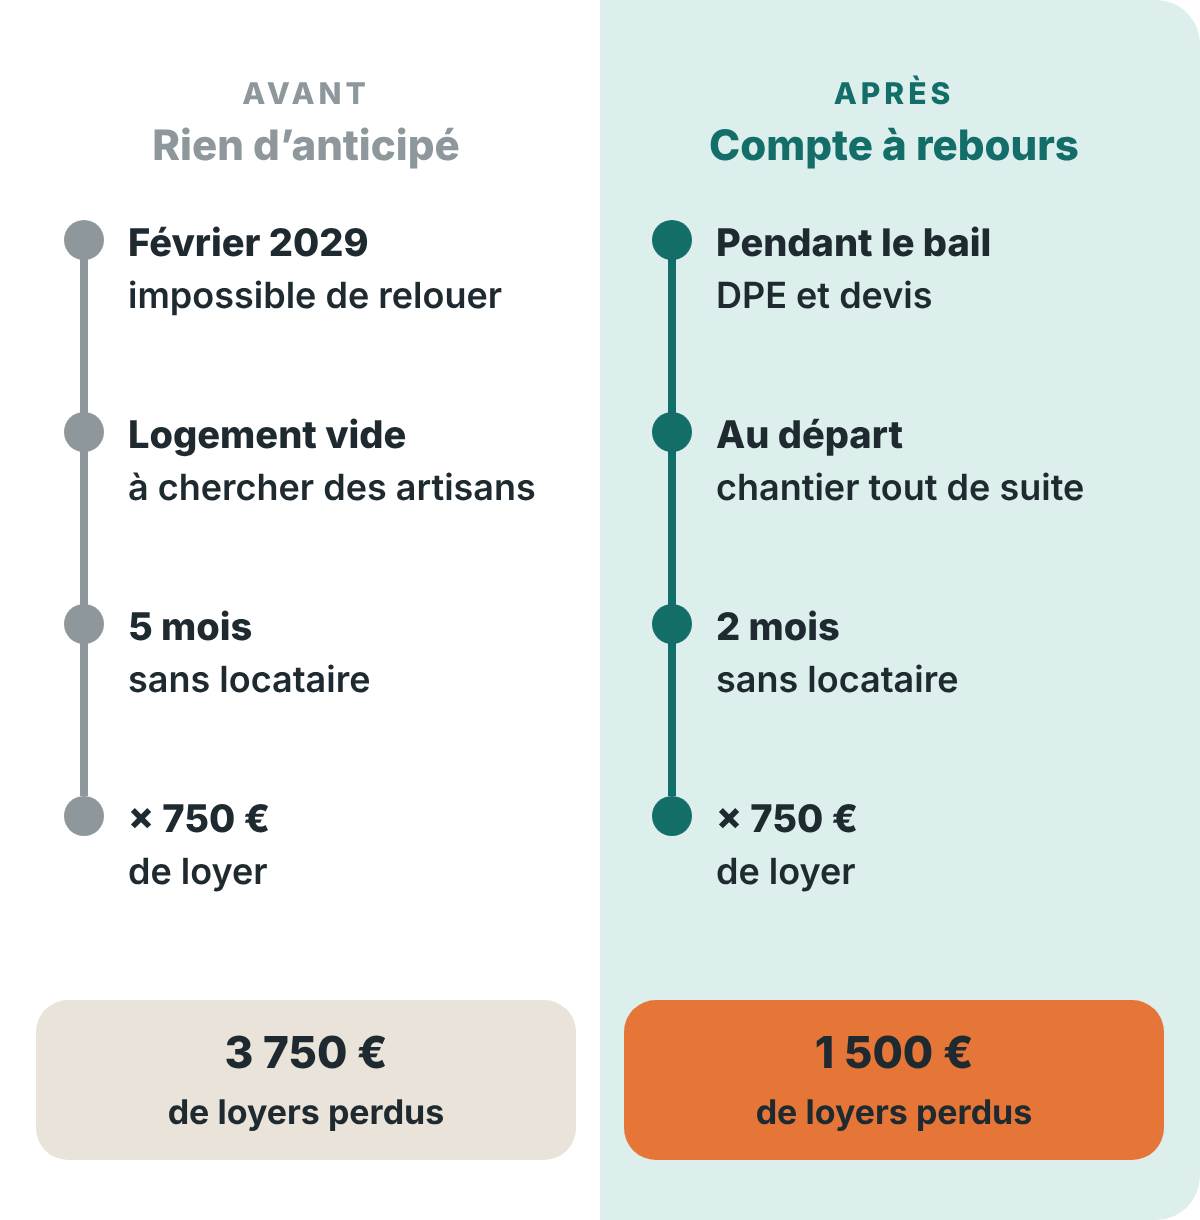
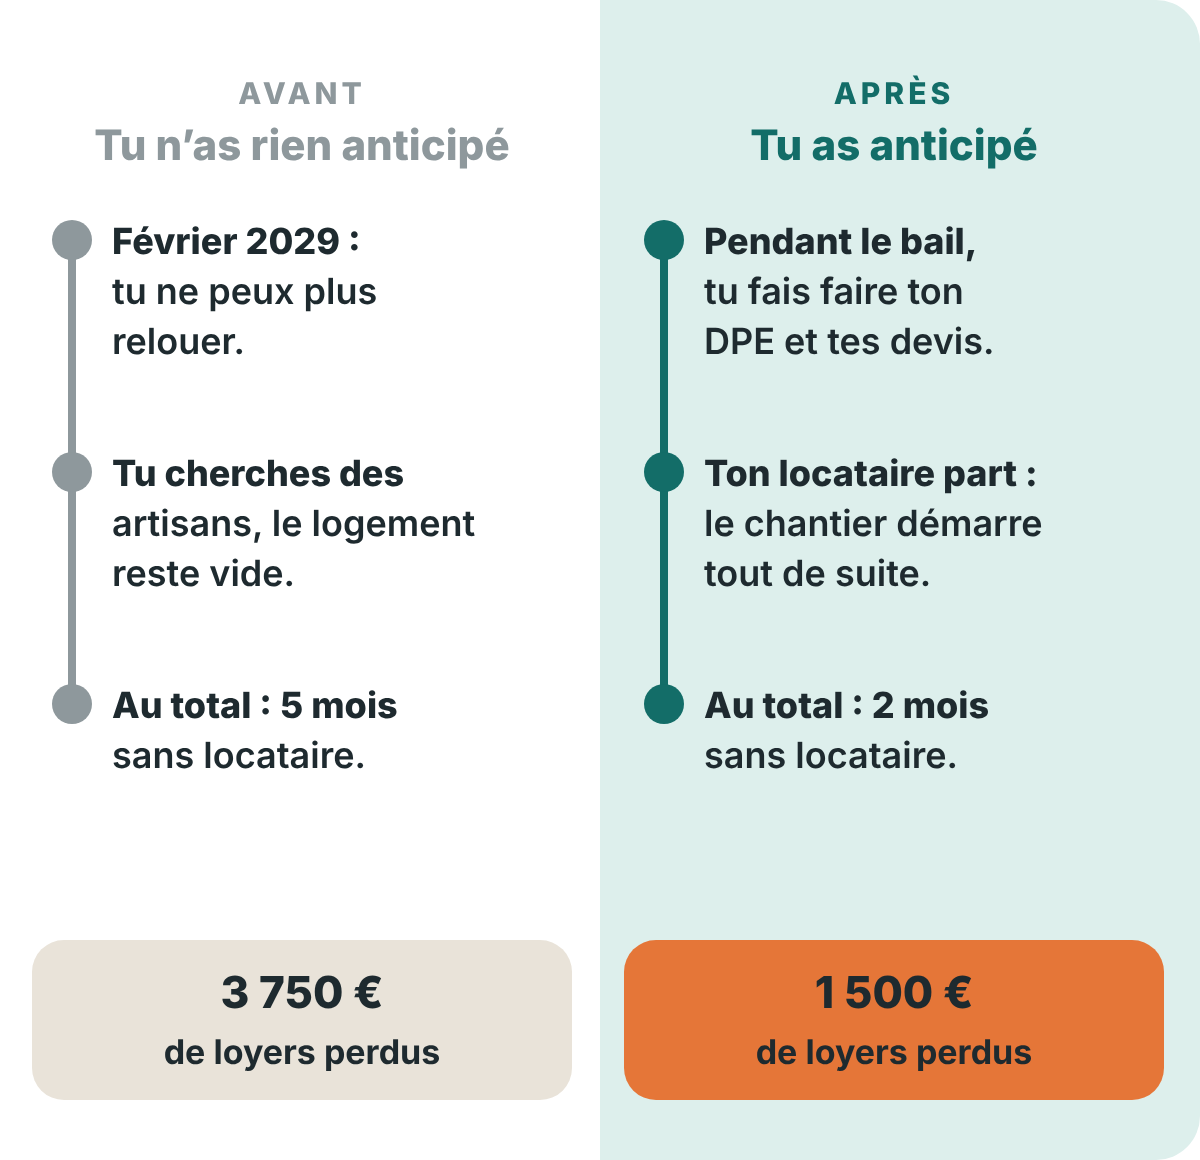
#148 v2 : écran du téléphone, calendrier DPE expliqué, avant/après en phrases, festival avant le vote
Claude-Session: https://claude.ai/code/session_01QEEMWNZxp929Pj8nsugEVU

diff --git a/outils/illus148.py b/outils/illus148.py
@@ -36,7 +36,7 @@ AV=os.path.join(HERE,"avatar")
 def will_panel(pose, lines, h=370, accent_last=True):
     n=len(lines); size=31 if n<=3 else 27; lh=size+9
     bh=lh*n+56; by=(h-bh)/2
-    data=base64.b64encode(open(os.path.join(AV,f"will-{pose}.png"),"rb").read()).decode()
+    data=base64.b64encode(open(pose if pose.endswith(".png") else os.path.join(AV,f"will-{pose}.png"),"rb").read()).decode()
     sz=h-20
     t="".join(txt(450, by+44+k*lh, l, size, TEAL if (accent_last and k==n-1) else INK, 800) for k,l in enumerate(lines))
     return svg(600,h,
@@ -108,19 +108,25 @@ for k,(a,b) in enumerate(items):
         +txt(102,y+25,a,19,INK,800,anchor="start")+txt(102,y+47,b,17,GREY,700,anchor="start"))
 out["04-programme"]=svg(600,422,g,TEAL_L)
 
-# 05. CALENDRIER HEXAGONE vs ANTILLES
-g=txt(300,46,"LOUER UNE PASSOIRE : LE CALENDRIER",16,TEAL,800,ls=2)
+# 05. CALENDRIER HEXAGONE vs ANTILLES (avec la légende des lettres)
+g=txt(300,44,"LA LETTRE DE TON DPE",16,TEAL,800,ls=2)
+for k,(l,c) in enumerate(DPE):
+    x=58+k*70
+    g+=f'<rect x="{x}" y="62" width="64" height="44" rx="10" fill="{c}"/>'+txt(x+32,92,l,22,WHITE,800)
+g+=txt(58,138,"A : très économe",18,INK,700,anchor="start")+txt(542,138,"G : passoire énergétique",18,INK,700,anchor="end")
+g+=f'<line x1="40" y1="166" x2="560" y2="166" stroke="{TEAL_M}" stroke-width="2"/>'
+g+=txt(300,204,"À PARTIR DE QUAND TU NE PEUX PLUS LOUER",16,TEAL,800,ls=1.5)
 def lane(y,title,col,marks):
     s=txt(40,y,title,20,col,800,anchor="start")+f'<line x1="60" y1="{y+46}" x2="560" y2="{y+46}" stroke="{GREY_L}" stroke-width="8" stroke-linecap="round"/>'
     for yr,lab,c in marks:
-        x=60+(yr-2024)*500/10
-        s+=f'<circle cx="{x}" cy="{y+46}" r="16" fill="{c}"/>'+txt(x,y+53,lab,17,WHITE,800)+txt(x,y+90,str(yr),18,INK,800)
+        x=70+(yr-2024)*44
+        s+=f'<rect x="{x-50}" y="{y+29}" width="100" height="34" rx="17" fill="{c}"/>'+txt(x,y+52,lab+" interdit",17,WHITE,800)+txt(x,y+92,str(yr),19,INK,800)
     return s
-g+=lane(86,"Hexagone",GREY,[(2025,"G","#D9482B"),(2028,"F","#E57638"),(2034,"E","#F2A33A")])
-g+=f'<rect x="20" y="200" width="560" height="140" rx="16" fill="{WHITE}"/>'
-g+=lane(226,"Guadeloupe et Martinique",TEAL,[(2028,"G","#D9482B"),(2031,"F","#E57638")])
-g+=txt(300,376,"Après ces dates, ces logements ne sont plus « décents » pour être loués.",15,GREY,700)
-out["05-calendrier"]=svg(600,400,g,TEAL_L)
+g+=lane(244,"Hexagone",GREY,[(2025,"G","#D9482B"),(2028,"F","#E57638"),(2034,"E","#F2A33A")])
+g+=f'<rect x="20" y="358" width="560" height="140" rx="16" fill="{WHITE}"/>'
+g+=lane(392,"Guadeloupe et Martinique",TEAL,[(2028,"G","#D9482B"),(2031,"F","#E57638")])
+g+=txt(300,532,"Les interdictions s’additionnent : en 2031, F et G sont interdits.",17,INK,700)
+out["05-calendrier"]=svg(600,560,g,TEAL_L)
 
 # 07. LE BAIL SIGNÉ CETTE ANNÉE
 g=txt(300,46,"UN BAIL VIDE DE 3 ANS SIGNÉ EN 2026",16,TEAL,800,ls=2)
@@ -181,16 +187,17 @@ out["12-dates"]=svg(600,340,g,TEAL_L)
 # 13. AVANT / APRÈS
 def colL(x0,title,color,rows,badge,bfill,btxt):
     g=(txt(x0+135,52,title[0],15,color,800,ls=2)+txt(x0+135,80,title[1],21,color,800))
-    g+=f'<line x1="{x0+24}" y1="120" x2="{x0+24}" y2="{110+96*3}" stroke="{color}" stroke-width="4"/>'
-    for k,(t1,t2) in enumerate(rows):
-        y=110+k*96
-        g+=f'<circle cx="{x0+24}" cy="{y+10}" r="10" fill="{color}"/>'+txt(x0+46,y+18,t1,19,INK,800,anchor="start")+txt(x0+46,y+44,t2,18,INK,600,anchor="start")
-    g+=f'<rect x="{x0}" y="500" width="270" height="80" rx="16" fill="{bfill}"/>'+txt(x0+135,534,badge[0],22,btxt,800)+txt(x0+135,562,badge[1],17,btxt,700)
+    g+=f'<line x1="{x0+20}" y1="120" x2="{x0+20}" y2="{120+116*2}" stroke="{color}" stroke-width="4"/>'
+    for k,lines in enumerate(rows):
+        y=114+k*116
+        g+=f'<circle cx="{x0+20}" cy="{y+6}" r="10" fill="{color}"/>'
+        g+="".join(txt(x0+40,y+13+j*25,l,18,INK,800 if j==0 else 600,anchor="start") for j,l in enumerate(lines))
+    g+=f'<rect x="{x0}" y="470" width="270" height="80" rx="16" fill="{bfill}"/>'+txt(x0+135,504,badge[0],22,btxt,800)+txt(x0+135,532,badge[1],17,btxt,700)
     return g
-g=(f'<rect x="300" y="0" width="300" height="610" fill="{TEAL_L}"/>'
-   + colL(18,("AVANT","Rien d’anticipé"),GREY,[("Février 2029","impossible de relouer"),("Logement vide","à chercher des artisans"),("5 mois","sans locataire"),("× 750 €","de loyer")],("3 750 €","de loyers perdus"),GREY_L,INK)
-   + colL(312,("APRÈS","Compte à rebours"),TEAL,[("Pendant le bail","DPE et devis"),("Au départ","chantier tout de suite"),("2 mois","sans locataire"),("× 750 €","de loyer")],("1 500 €","de loyers perdus"),MANGO,INK))
-out["13-exemple"]=svg(600,610,g,WHITE)
+g=(f'<rect x="300" y="0" width="300" height="580" fill="{TEAL_L}"/>'
+   + colL(16,("AVANT","Tu n’as rien anticipé"),GREY,[["Février 2029 :","tu ne peux plus","relouer."],["Tu cherches des","artisans, le logement","reste vide."],["Au total : 5 mois","sans locataire."]],("3 750 €","de loyers perdus"),GREY_L,INK)
+   + colL(312,("APRÈS","Tu as anticipé"),TEAL,[["Pendant le bail,","tu fais faire ton","DPE et tes devis."],["Ton locataire part :","le chantier démarre","tout de suite."],["Au total : 2 mois","sans locataire."]],("1 500 €","de loyers perdus"),MANGO,INK))
+out["13-exemple"]=svg(600,580,g,WHITE)
 dest=sys.argv[1]; os.makedirs(dest,exist_ok=True)
 with sync_playwright() as p:
     b=p.chromium.launch(executable_path="/usr/bin/google-chrome",args=["--no-sandbox"])

diff --git a/outils/ecran.py b/outils/ecran.py
@@ -1,0 +1,28 @@
+# -*- coding: utf-8 -*-
+"""Met le Journal Débrouya (couverture de l'édition) dans l'écran du téléphone de la pose « telephone ».
+Usage : python3 ecran.py will-telephone.png 01-hero.png sortie.png"""
+import sys
+import numpy as np
+from PIL import Image, ImageDraw, ImageFilter
+from scipy import ndimage
+pose=Image.open(sys.argv[1]).convert("RGBA"); a=np.array(pose).astype(int)
+m=(a[...,3]>250)&(a[...,0]>235)&(a[...,1]>235)&(a[...,2]>235)
+lab,n=ndimage.label(m); i=ndimage.sum(m,lab,range(1,n+1)).argmax()+1
+scr=ndimage.binary_dilation(lab==i,iterations=2)
+ys,xs=np.where(scr); x0,x1,y0,y1=xs.min(),xs.max(),ys.min(),ys.max(); W,H=x1-x0+1,y1-y0+1
+S=4; cw,ch=W*S,H*S
+c=Image.new("RGB",(cw,ch),"#FBF5EC"); d=ImageDraw.Draw(c)
+hero=Image.open(sys.argv[2]).convert("RGB"); hh=round(hero.height*cw/hero.width)
+c.paste(hero.resize((cw,hh),Image.LANCZOS),(0,0))
+y=hh+int(cw*0.07); L=int(cw*0.07); R=cw-L; lh=int(cw*0.045)
+for k,wid in enumerate([0.95,1,0.88,0.97,0.6]):
+    d.rounded_rectangle((L,y,L+(R-L)*wid,y+lh),radius=lh//2,fill="#C9C2B7"); y+=int(lh*2.1)
+y+=int(lh*0.8)
+d.rounded_rectangle((L,y,R,min(ch-L,y+int(cw*0.42))),radius=int(cw*0.06),fill="#136D68")
+yy=y+int(cw*0.08)
+for wid in [0.8,0.9,0.55]:
+    d.rounded_rectangle((L+int(cw*0.07),yy,L+int(cw*0.07)+(R-L-int(cw*0.14))*wid,yy+lh),radius=lh//2,fill="#FFD3AE" if wid==0.8 else "#FFFFFF"); yy+=int(lh*2.1)
+c=c.resize((W,H),Image.LANCZOS)
+mask=Image.fromarray((scr[y0:y1+1,x0:x1+1]*255).astype("uint8")).filter(ImageFilter.GaussianBlur(0.8))
+pose.paste(c,(x0,y0),mask)
+pose.save(sys.argv[3]); print(W,H)

diff --git a/outils/REGLES.md b/outils/REGLES.md
@@ -33,3 +33,10 @@
 20. Sondage « nouveau format » : terminé — utilisé uniquement dans la #147 (votes dans le Sheet « Sondages Journal Débrouya »). Ne plus le mettre dans les éditions suivantes, sauf nouvelle demande de Steny.
 21. Boutons réseaux : icônes officielles Instagram et YouTube (dossier commun/ du dépôt) + le nom écrit à côté, liens vers les comptes de Will.
 22. Titre de carte avec icône (💡…) : icône dans sa propre colonne (ikicker), pour que la 2e ligne du titre s'aligne sous le texte et sur les puces, pas sous l'icône.
+23. Textes dans les visuels : des phrases complètes et naturelles (« Février 2029 : tu ne peux plus relouer. »), jamais du style télégraphique (« Logement vide / pour chercher artisans », « × 750 € / de loyer »).
+24. Un visuel doit se comprendre sans connaissance préalable : si l'image repose sur un code (lettres du DPE, sigles…), elle l'explique elle-même (légende « A : très économe… G : passoire énergétique », « G interdit » plutôt que « G » seul).
+25. Pas d'image « sommaire » qui ne fait que répéter les titres qui suivent (ex. l'escalier 1-2-3-4 avant les 4 étapes) : on la supprime.
+26. Pose « telephone » de Will : l'écran affiche la couverture de l'édition (outils/ecran.py pose + 01-hero → will-telephone-NNN.png), jamais un écran blanc.
+27. Accord collectif : avec « nombreux », passer au « vous » (« Vous avez été nombreux à répondre »), même dans un journal au « tu ». Jamais « tu as été nombreux ».
+28. Bouton orange : pas d'émoji clair (ticket, 👉 jaune…) qui disparaît sur le fond orange ; préférer une flèche « → » couleur du texte.
+29. Ordre des actus en tête : l'actu avec une action à faire et une date limite (événement, inscription) passe avant les actus « pour info » (résultat de vote, remerciements).
